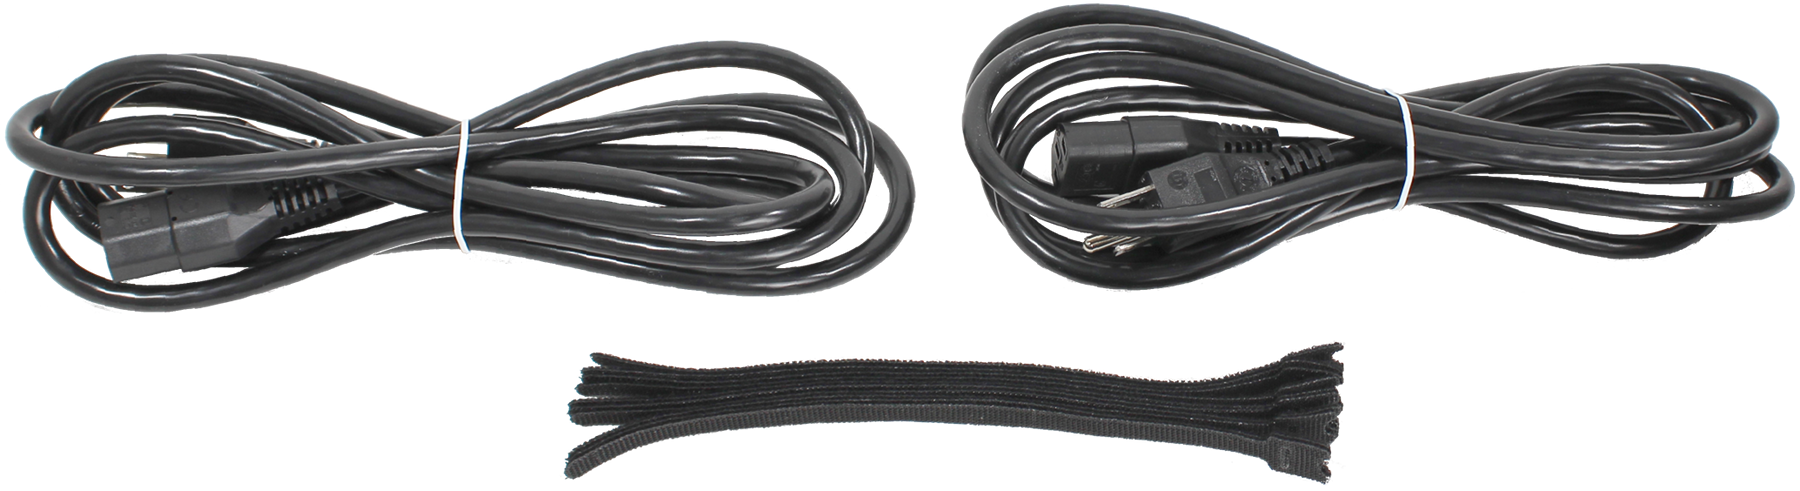
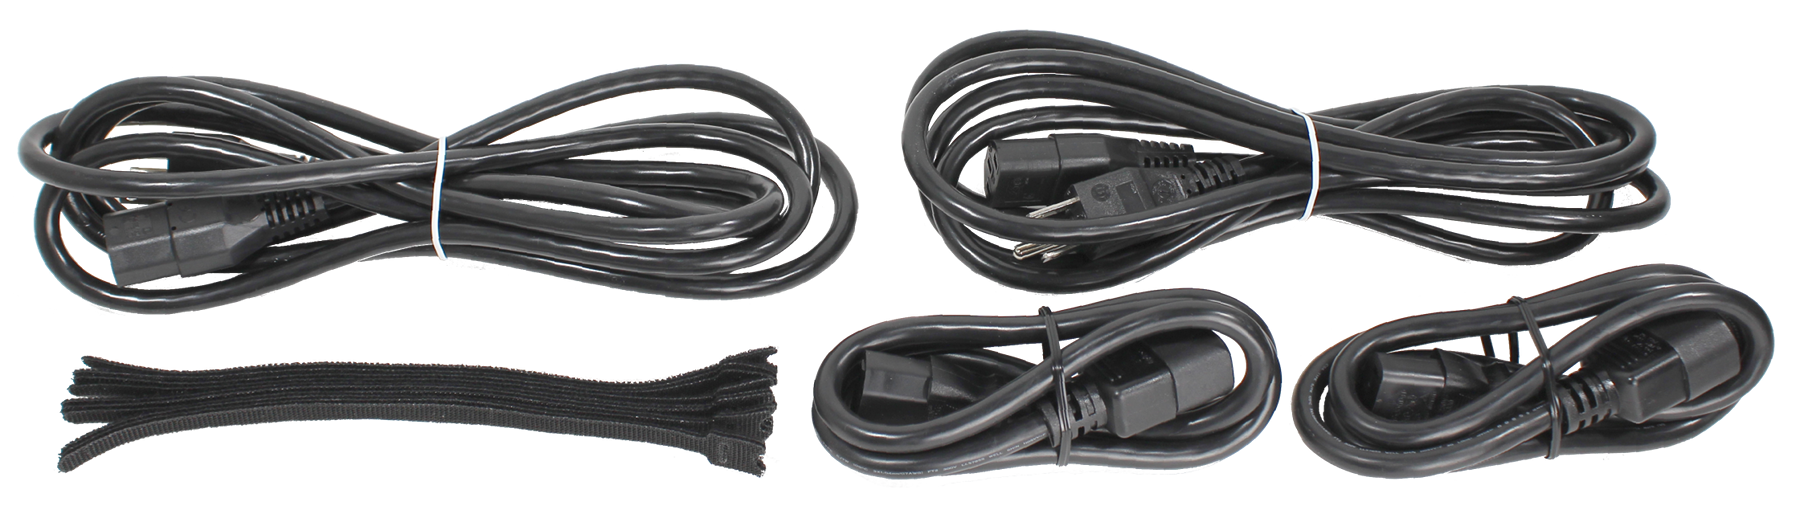
Revert to previous (correct) version of accessory kit.

diff --git a/userguide/snippets/es12.rst b/userguide/snippets/es12.rst
@@ -39,8 +39,8 @@ Carefully unpack the shipping boxes and locate these components:
    |    :width: 80%                             |    :width: 40%                              |
    |                                            |                                             |
    | Accessory kit with 2 IEC C13 to NEMA 5-15P | Two 3-meter Mini SAS HD to Mini SAS HD      |
-   | power cords and a set of velcro cable      | cables                                      |
-   | ties                                       |                                             |
+   | power cords, 2 IEC C14 to C14 cords, and a | cables                                      |
+   | set of velcro cable ties                   |                                             |
    +--------------------------------------------+---------------------------------------------+
 
 
@@ -64,7 +64,7 @@ fault. The fault indicator is on during the initial power-on self-test
 
 .. _es12_indicators:
 .. figure:: images/tn_x10es12_indicators.png
-   :width: 1.5in
+   :width: 1.75in
 
    Front Panel Indicators
 

diff --git a/userguide/snippets/x10.rst b/userguide/snippets/x10.rst
@@ -39,7 +39,8 @@ Carefully unpack the shipping boxes and locate these components:
    |    :width: 80%                             |    :width: 30%                              |
    |                                            |                                             |
    | Accessory kit with 2 IEC C13 to NEMA 5-15P | Black USB to 3.5mm serial cable (shipped    |
-   | power cords and set of velcro cable ties   | separately)                                 |
+   | power cords, 2 IEC C14 to C14 cords, and a | separately)                                 |
+   | set of velcro cable ties                   |                                             |
    +--------------------------------------------+---------------------------------------------+
 
 .. raw:: latex
@@ -63,7 +64,7 @@ or when the %brand% software has issued an
 .. _x10_indicators:
 
 .. figure:: images/tn_x10es12_indicators.png
-   :width: 1.5in
+   :width: 1.75in
 
    Front Panel Indicators
 
